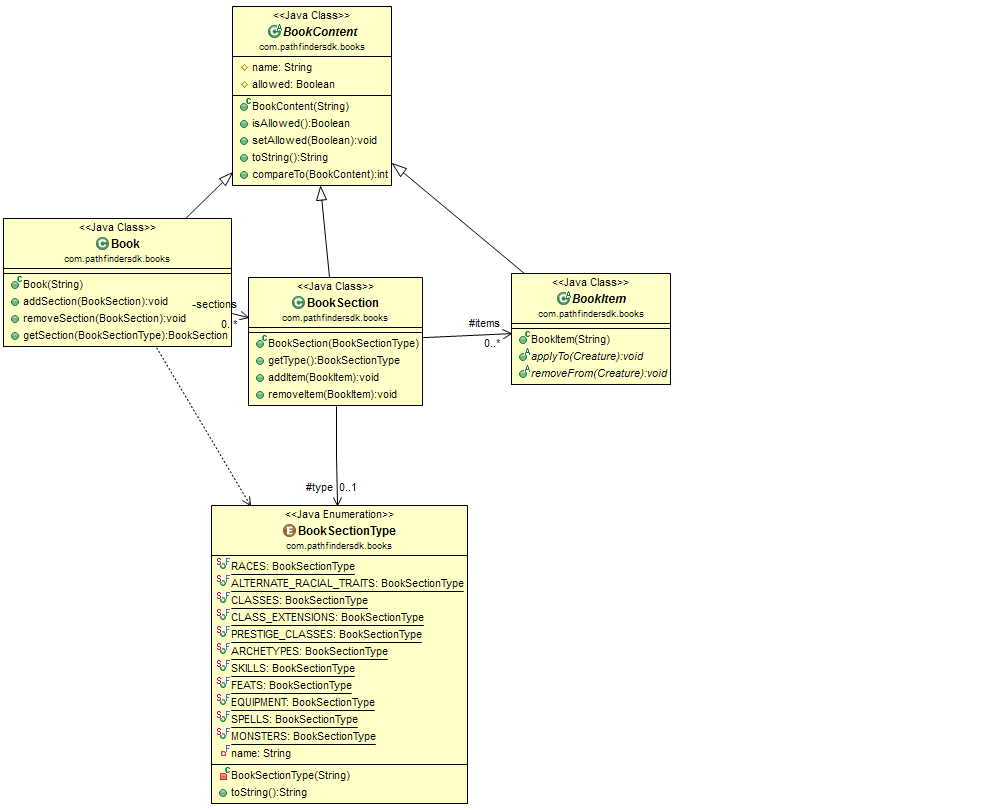
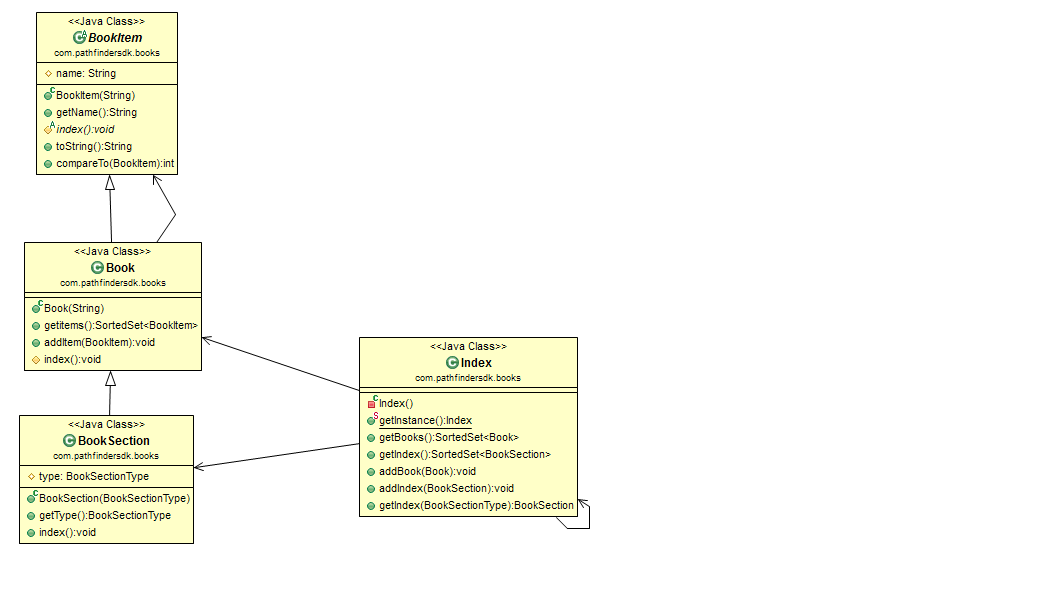
Streamlined books package

diff --git a/src/com/pathfindersdk/books/Index.java b/src/com/pathfindersdk/books/Index.java
@@ -1,0 +1,82 @@
+package com.pathfindersdk.books;
+
+import java.util.Collections;
+import java.util.SortedSet;
+import java.util.TreeSet;
+
+import com.pathfindersdk.enums.BookSectionType;
+
+public class Index
+{
+  private static Index instance = new Index();
+  
+  private SortedSet<Book> books = new TreeSet<Book>();                // References all books directly
+  private SortedSet<BookSection> index = new TreeSet<BookSection>();  // Does not reference book sections directly, it gathers say all RaceItems
+  
+  // Library is a singleton
+  private Index() {}
+
+  public static Index getInstance()
+  {
+    return instance;
+  }
+
+  public SortedSet<Book> getBooks()
+  {
+    return Collections.unmodifiableSortedSet(books);
+  }
+
+  public SortedSet<BookSection> getIndex()
+  {
+    return Collections.unmodifiableSortedSet(index);
+  }
+
+  public void addBook(Book book)
+  {
+    if(book != null)
+    {
+      books.add(book);
+    }
+  }
+  
+  public void addIndex(BookSection section)
+  {
+    if(section != null)
+    {
+      // Check if an existing indexed section with the same type already exists
+      BookSectionType type = section.getType();
+      boolean alreadyIndexed = false;
+      
+      for(BookSection indexed : index)
+      {
+        if(indexed.getType().equals(type))
+          alreadyIndexed = true;
+      }
+      
+      if(!alreadyIndexed)
+        index.add(new BookSection(section.getType()));
+    }
+  }
+  
+  public BookSection getIndex(BookSectionType type)
+  {
+    BookSection section = null;
+    
+    // Try to find an existing section
+    for(BookSection indexed : index)
+    {
+      if(indexed.getType().equals(type))
+        section = indexed;
+    }
+    
+    // If section has not been found, create and add it to index
+    if(section == null)
+    {
+      section = new BookSection(type);
+      index.add(section);
+    }
+    
+    return section;
+  }
+
+}

diff --git a/src/com/pathfindersdk/books/Book.java b/src/com/pathfindersdk/books/Book.java
@@ -1,55 +1,38 @@
 package com.pathfindersdk.books;
 
-import java.util.Hashtable;
+import java.util.Collections;
+import java.util.SortedSet;
+import java.util.TreeSet;
 
-import com.pathfindersdk.enums.BookSectionType;
-
-
-/**
- * This class wraps everything a book may contain. It also adds elements into indexes for easy retrieval, say from another book. 
- */
-public class Book
+public class Book extends BookItem
 {
-  protected String title;
-  protected Hashtable<BookSectionType, BookSection> sections;
-  
-  public Book(String title)
-  {
-    this.title = title;
-  }
-  
-  public String getTitle()
-  {
-    return title;
-  }
-  
-  public BookSection getSection(BookSectionType type)
-  {
-    if(sections != null)
-      return sections.get(type);
-    else
-      return null;
-  }
+  protected SortedSet<BookItem> items;
 
-  public void addSection(BookSection section)
+  public Book(String name)
   {
-    if(section != null)
-    {
-      if(sections == null)
-        sections = new Hashtable<BookSectionType, BookSection>();
-      
-      sections.put(section.getType(), section);
-    }    
+    super(name);
   }
   
-  public void removeSection(BookSection section)
+  public SortedSet<BookItem> getitems()
   {
-    if(section != null && sections != null)
+    return Collections.unmodifiableSortedSet(items);
+  }
+  
+  public void addItem(BookItem item)
+  {
+    if(item != null)
     {
-      sections.remove(section.getType());
+      if(items == null)
+        items = new TreeSet<BookItem>();
       
-      if(sections.isEmpty())
-        sections = null;
+      items.add(item);
     }
   }
+
+  @Override
+  protected void index()
+  {
+    Index.getInstance().addBook(this);
+  }
+
 }

diff --git a/src/com/pathfindersdk/books/BookSection.java b/src/com/pathfindersdk/books/BookSection.java
@@ -1,13 +1,10 @@
 package com.pathfindersdk.books;
 
-import java.util.TreeSet;
-
 import com.pathfindersdk.enums.BookSectionType;
 
-public class BookSection extends BookItem
+public class BookSection extends Book
 {
   protected BookSectionType type;
-  protected TreeSet<BookItem> items;
   
   public BookSection(BookSectionType type)
   {
@@ -20,31 +17,10 @@ public class BookSection extends BookItem
     return type;
   }
   
-  public TreeSet<BookItem> getItems()
+  @Override
+  public void index()
   {
-    return items;
-  }
-
-  public void addItem(BookItem item)
-  {
-    if(item != null)
-    {
-      if(items == null)
-        items = new TreeSet<BookItem>();
-      
-      items.add(item);
-    }
-  }
-  
-  public void removeItem(BookItem item)
-  {
-    if(items != null)
-    {
-      items.remove(item);
-      
-      if(items.isEmpty())
-        items = null;
-    }
+    Index.getInstance().addIndex(this);
   }
 
 }

diff --git a/src/com/pathfindersdk/books/BookItem.java b/src/com/pathfindersdk/books/BookItem.java
@@ -9,12 +9,15 @@ public abstract class BookItem implements Comparable<BookItem>
   public BookItem(String name)
   {
     this.name = name;
+    index();
   }
   
   public String getName()
   {
     return name;
   }
+  
+  protected abstract void index();
   
   @Override
   public String toString()
